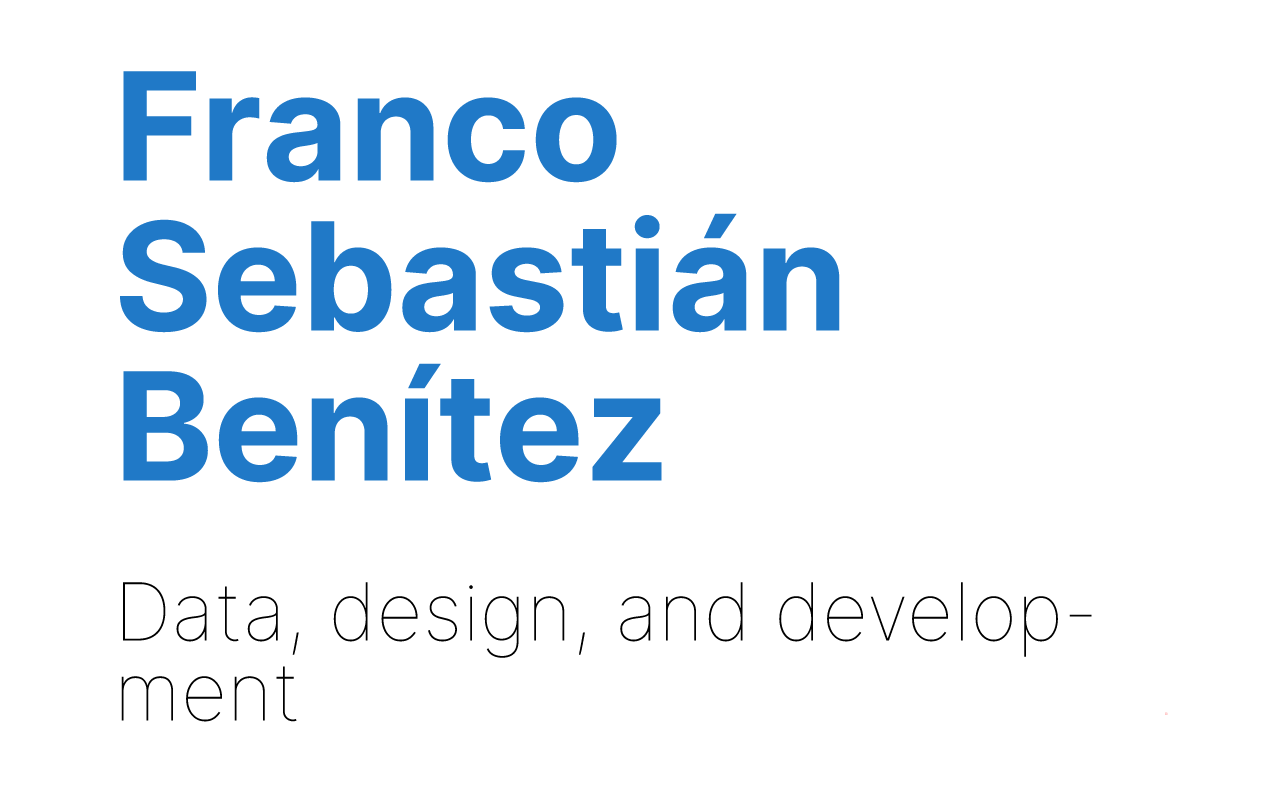
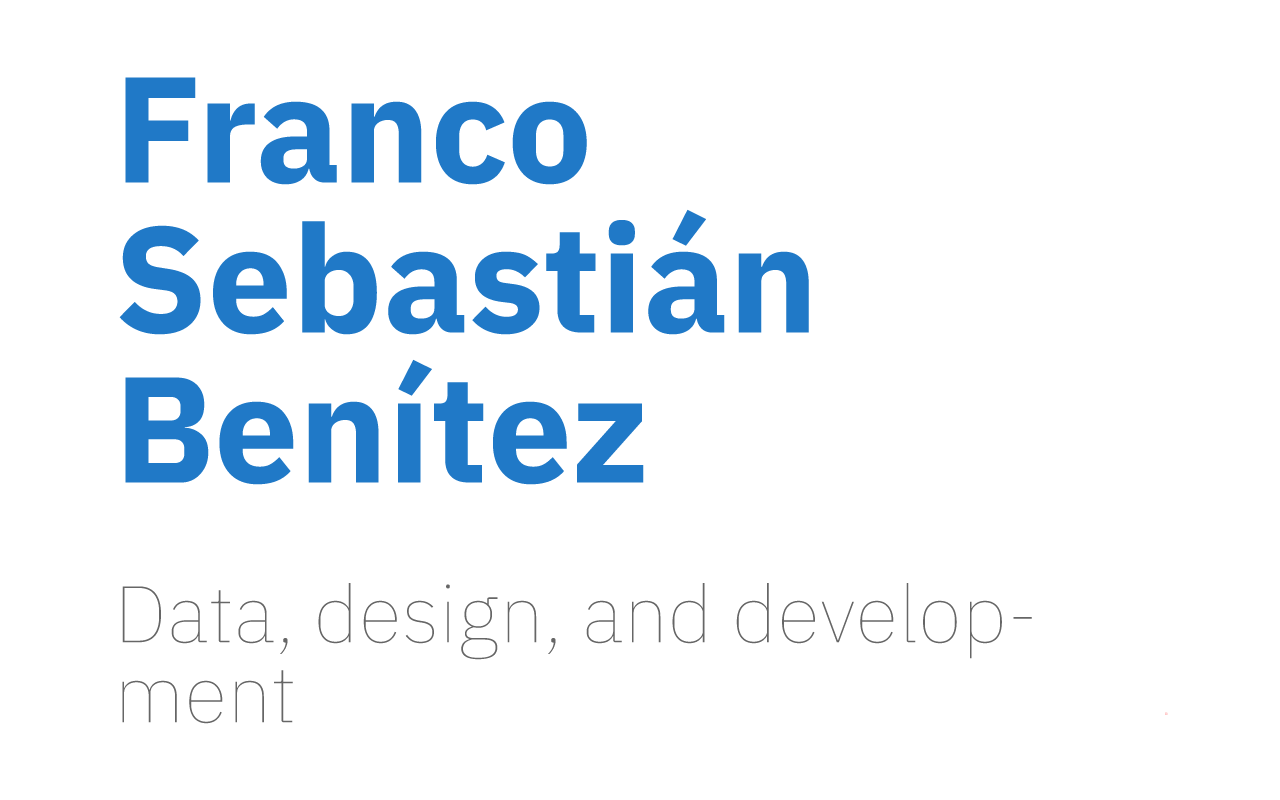
style: change social image & add grey color to hero h2

diff --git a/components/Hero/styles.jsx b/components/Hero/styles.jsx
@@ -43,8 +43,8 @@ export const StyledHero = styled.section`
 
     h2 {
         font-size: 2em;
-        color: ${(props) => props.theme.text};
-        font-weight: 500;
+        color: ${(props) => props.theme.grey};
+        font-weight: 600;
     }
     
     .hero-img svg { 

diff --git a/styles/Theme.jsx b/styles/Theme.jsx
@@ -56,6 +56,7 @@ export const theme = {
         fourth: "#DBA11C",
         text: "#313131",
         link: "#1155cc",
+        grey: "#666666",
         background: "#f9fafb",
     },
 
